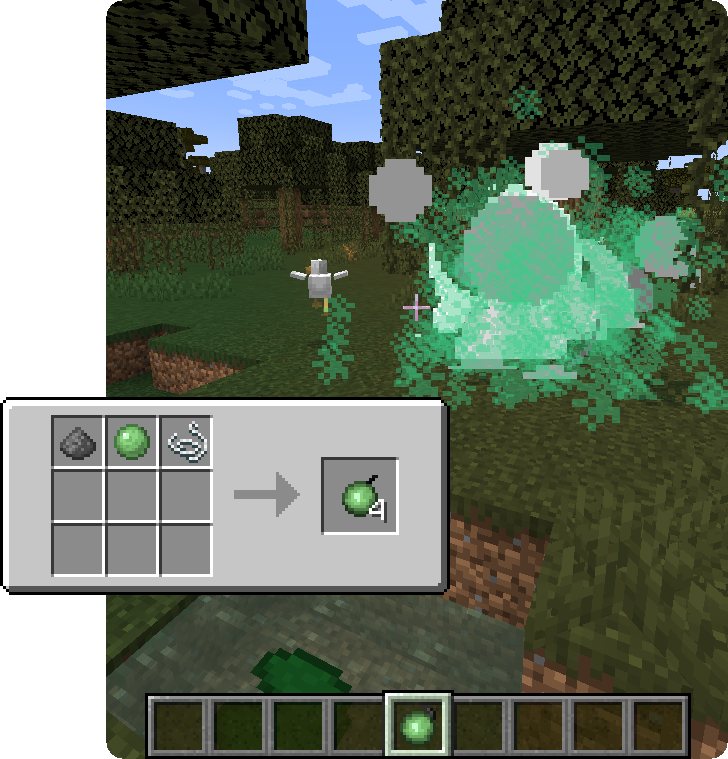
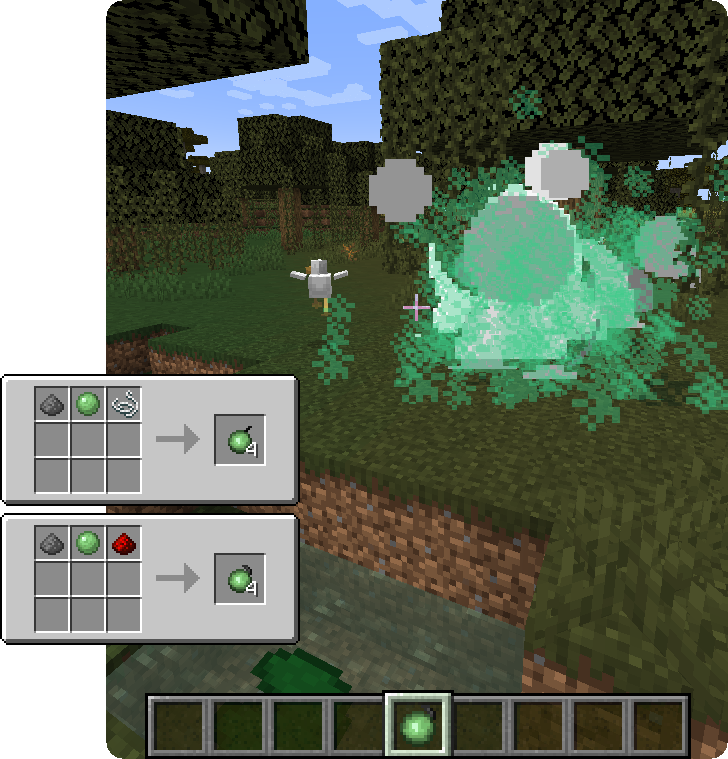
Updated the Blast Wiki
Includes the Bonesburrier, Remote Detonator and Folly Red Paint now + some additional changes to the old stuff

Changed region(s): [[0.0, 0.4848, 0.6346, 0.8485]]

diff --git a/wiki/blast.md b/wiki/blast.md
@@ -5,7 +5,7 @@ slug: blast
 curse_project: 349938
 ---
 
-BLAST is a Minecraft fabric mod adding multiple explosives for use in survival or for messing around in creative to the game.
+BLAST is a Minecraft fabric mod adding multiple explosives for use in survival or for messing around in creative.
 
 # Features
 
@@ -39,33 +39,31 @@ Crafted like normal bombs with an Enderpearl as base material, this bomb has a *
 
 ### Confetti Bombs
 
-Confetti Bombs come, as most other bombs, in 2 variation: As a trigger bomb and as a timed bomb. Instead of blowing your world up however, Confetti bombs make it prettier: **They will spread confetti particles upon exploding!** Those particles come in multiple different colours and **remain on the ground for 1 minute** after the explosion. Confetti Bombs are crafted shapelessly with 7 Paper, 1 Gunpowder and either 1 String (timed, top) or 1 Redstone Dust (trigger, bottom).
+Confetti Bombs come, as most other bombs, in 2 variants: As a trigger bomb and as a timed bomb. Instead of blowing your world up however, Confetti bombs make it prettier: **They will spread confetti particles upon exploding!** Those particles come in multiple different colours and **remain on the ground for 1 minute** after the explosion. Confetti Bombs are crafted shapelessly with 7 Paper, 1 Gunpowder and either 1 String (timed) or 1 Redstone Dust (trigger).
 
 ![Confetti Bombs](blast/ConfettiBombs.png)
-
-
 
 ### Slime Bombs
 
 Slime Bombs can be crafted using **1 gunpowder, 1 Slimeball and 1 String/Redstone Dust**. Slime Bombs do **not deal any damage** to entities but have **increased knockback!**
 
-<img src="blast/SlimeBomb.png" alt="Slime Bomb" style="zoom:80%;" />
+![Slime Bomb](blast/SlimeBomb.png)
 
 ### Amethyst Bombs
 
 Crafted like any other bomb with an **Amethyst Block as base material**, the Amethyst Bomb **adds 70 amethyst shards to your explosion**, at the **cost of the normal explosion damage**. These shards will spread in all directions and **deal 8 damage (4 hearts) per shard**.
 
-<img src="blast/AmethystBomb.png" alt="Amethyst Bomb" style="zoom:80%;" />
+![Amethyst Bomb](blast/AmethystBomb.png)
 
 ### Frost Bombs
 
 Being an alternative to Amethyst Bombs, Frost Bombs are crafted by adding **Packed Ice as base material** and **replace the amethyst shards with icicles.** These icicles deal only **0.01 damage** but **apply freezing effects** to their targets, bypassing armor without damaging it.
 
-<img src="blast/FrostBomb.png" alt="Frost Bomb" style="zoom:80%;" />
+![Frost Bomb](blast/FrostBomb.png)
 
 ### Naval Mines
 
-Naval Mines are bombs that trigger on impact, **can destroy blocks underwater** and **will not sink** when thrown in water. Other than standard bombs the naval mine has an explosion power of 4 and **only** exists as a **trigger bomb** variant.
+Naval Mines are bombs that trigger on impact and **can destroy blocks underwater**. In comparison to standard bombs the naval mine has an explosion power of 4 and **only** exists as a **trigger bomb** variant.
 
 ![Naval Mine Recipe](blast/NavalMineRecipe.png)
 
@@ -81,7 +79,8 @@ The Gunpowder Block is a compact way of storing gunpowder. When placed it is **h
 
 ### Stripminer
 
-The Stripminer is **triggered like TNT** and **focuses the explosion in one direction.** It creates a 3x3+ wide tunnel and usually points the way the player is looking upon placing it down, this, however, is inverted while sneaking. When the stripminer is set off by other explosives the direction can get misaligned and the fuse time varies slightly. In the recipe, the **Gunpowder Block can be replaced with TNT**.
+The Stripminer is **triggered similarly to TNT** and **focuses its explosion power in one direction.** It creates a 3x3+ wide tunnel and usually points the way the player is looking upon placing it down, this, however, is inverted while sneaking.
+When the stripminer is set off by other explosives the direction can get misaligned and the fuse time varies slightly.
 
 ![Stripminer](blast/Stripminer.png)
 
@@ -91,18 +90,18 @@ The Cold Digger is an upgrade to the Stripminer that keeps the functionality of 
 
 #### Dry Ice
 
-Dry Ice is a kind of ice that **does not melt or create water** upon breaking. It emits particles and can be mined using silk touch. 
+Dry Ice is a kind of ice that **does not melt or create water** upon breaking. It emits particles and can be mined using silk touch.
 
 ![Cold Digger](blast/ColdDigger.png)
 
 # FAQ
 #### Can I include this mod in a modpack?
 
-**Yes**, you can. Go ahead, don't bother asking. Please  however provide credit and a link to both the GitHub repository and  Curse Forge project page.
+**Yes**, you can. Go ahead, don't bother asking. Please  however provide credit and a link to both the [GitHub repository](https://github.com/Ladysnake/BLAST) and  [Curse Forge project page](https://www.curseforge.com/minecraft/mc-mods/blast).
 
 #### Can you port to Forge please? Backport to version X?
 
-We don't port our mods to forge or backport them for various reasons. If you want to make a port yourself however feel free to [come chat with us about it](https://ladysnake.glitch.me)!
+Sorry, we **don't** port our mods to forge or backport them for various reasons.
 
 
 
